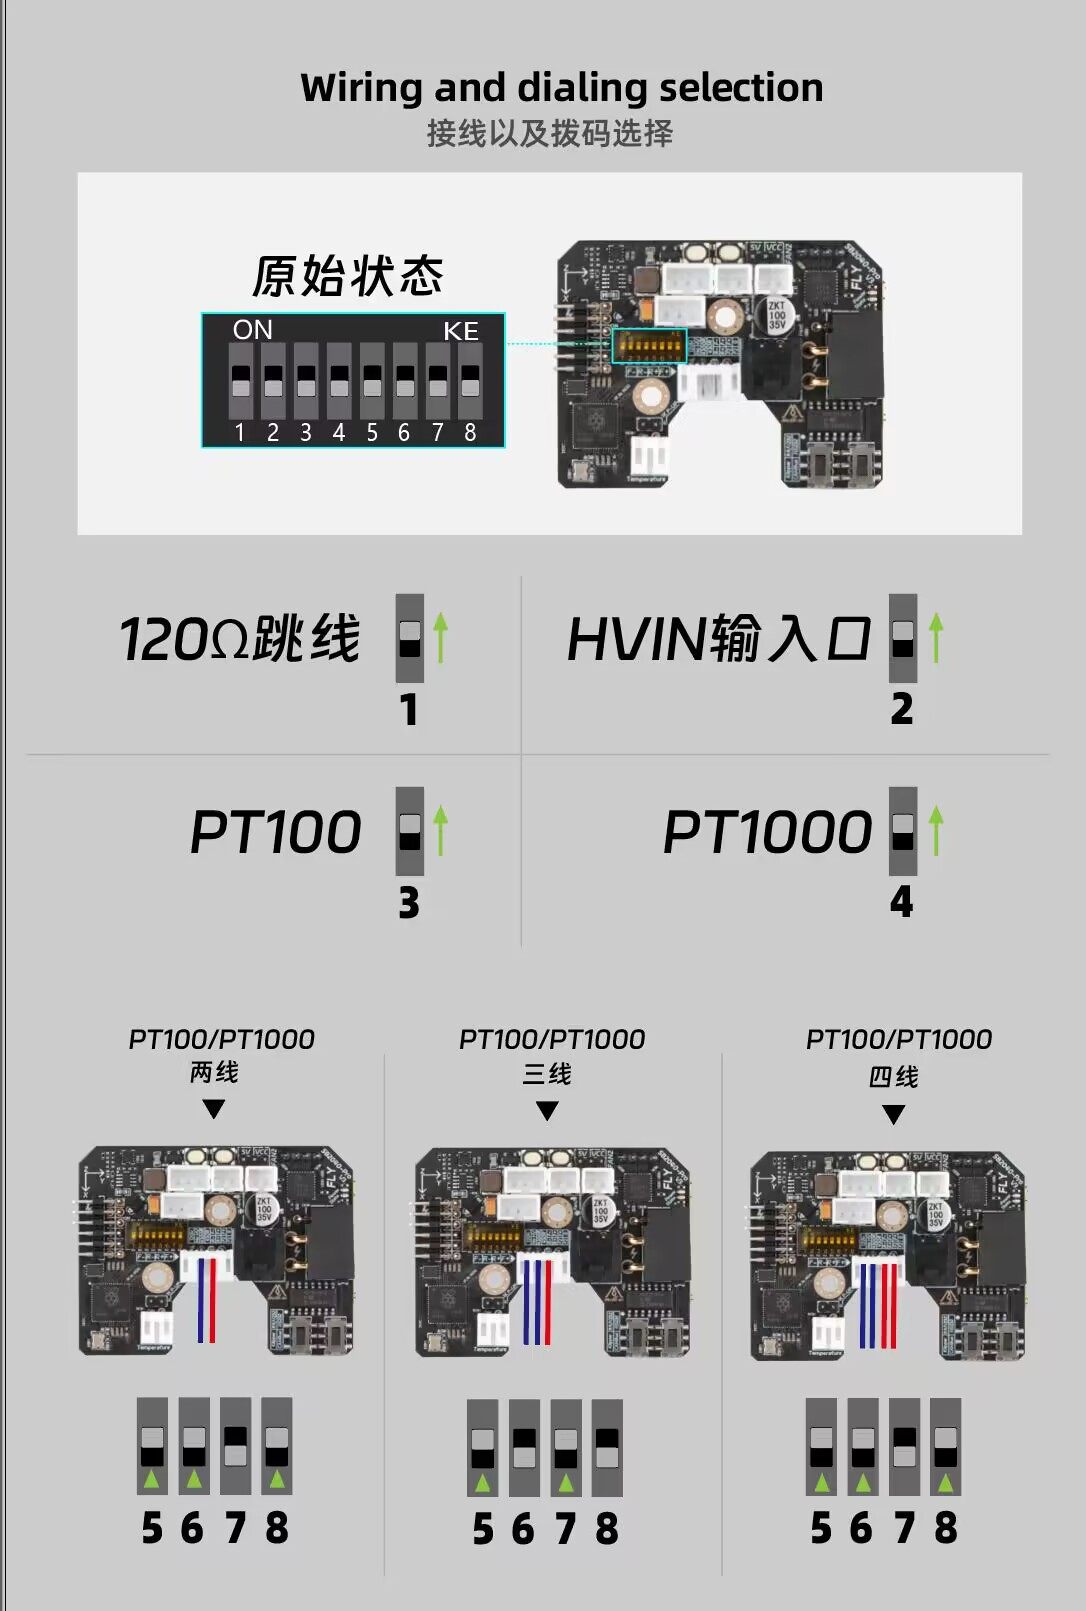
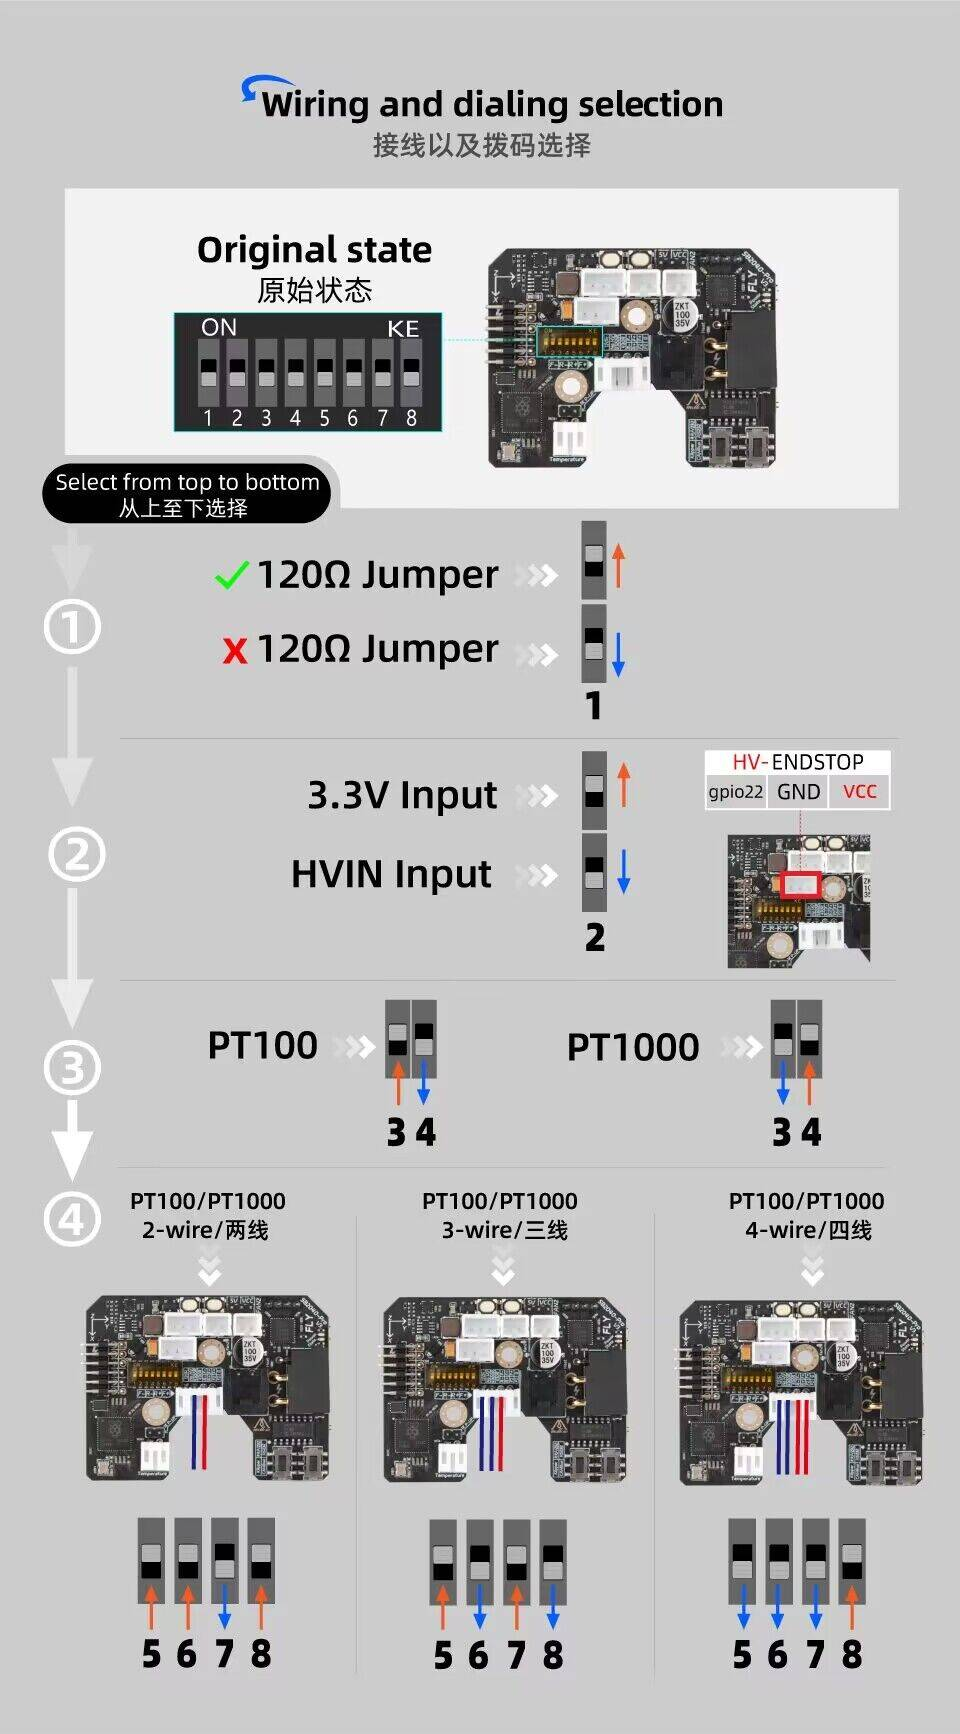
更新sb2040拨码选项 更新d5烧录 修复已知问题

Changed region(s): [[0.0, 0.0, 0.9688, 1.0], [0.25, 0.031, 0.75, 0.0931], [0.5938, 0.5897, 0.75, 0.6207]]

diff --git a/docs/board/fly_d5/katapult.md b/docs/board/fly_d5/katapult.md
@@ -137,5 +137,5 @@ make flash FLASH_DEVICE=/dev/serial/by-id/usb-katapult_stm32f072xb_12345-if00
 ![2](../../images/boards/fly_d5/flash2.png)
 
 * 出现`CAN Flash Success`代表烧录成功
-* 如果需要更新KLIPPER固件可在`Klipper`目录下执行`python3 ~/katapult/scripts/flashtool.py -i can0 -u <MCU ID> -r`，此命令可以让主板**进入katapult固件下**只需要**重新执行烧录klipper固件命令即可**
+* 如果需要更新KLIPPER固件可在`Klipper`目录下执行`~/klippy-env/bin/python3  ~/katapult/scripts/flashtool.py -i can0 -u <MCU ID> -r`，此命令可以让主板**进入katapult固件下**只需要**重新执行烧录klipper固件命令即可**
 

diff --git a/docs/board/fly_sb2040_v3/DIP_switch.md b/docs/board/fly_sb2040_v3/DIP_switch.md
@@ -4,20 +4,5 @@
 
 
 
-## KLIPPPER使用CAN连接时候请将拨码拨到
+![DIP](../../images/boards/fly_sb2040_v3/DIP.jpg)
 
-**两个拨码都往下拨**
-
-![DIP](../../images/boards/fly_sb2040_v3/DIP.png)
-
-## KLIPPER使用RS232连接时候请将拨码拨到
-
-**两个拨码都往上拨**
-
-![DIP](../../images/boards/fly_sb2040_v3/UART.png)
-
-## RRF使用CAN连接时候请将拨码拨到
-
-**左边拨码往上拨，右边拨码往下拨**
-
-![DIP](../../images/boards/fly_sb2040_v3/RRF.png)

diff --git a/docs/board/fly_sb2040_v3_pro/DIP_switch.md b/docs/board/fly_sb2040_v3_pro/DIP_switch.md
@@ -4,20 +4,4 @@
 
 
 
-## KLIPPPER使用CAN连接时候请将拨码拨到
-
-**两个拨码都往下拨**
-
-![DIP](../../images/boards/fly_sb2040_v3/DIP.png)
-
-## KLIPPER使用RS232连接时候请将拨码拨到
-
-**两个拨码都往上拨**
-
-![DIP](../../images/boards/fly_sb2040_v3/UART.png)
-
-## RRF使用CAN连接时候请将拨码拨到
-
-**左边拨码往上拨，右边拨码往下拨**
-
-![DIP](../../images/boards/fly_sb2040_v3/RRF.png)
+![DIP](../../images/boards/fly_sb2040_v3/DIP.JPG)

diff --git a/docs/board/fly_sht_v2/canbootflash.md b/docs/board/fly_sht_v2/canbootflash.md
@@ -21,7 +21,7 @@ https://cdn.mellow.klipper.cn/BL/FLY_SHT36V2_072_CANBOOT_500K.bin
 1M的CANBOOT下载链接
 
 ```
-https://cdn.mellow.klipper.cn/BL/FLY_SHT36V2_072_CANBOOT_500K.bin
+https://cdn.mellow.klipper.cn/BL/FLY_SHT36V2_072_CANBOOT_1M.bin
 ```
 
 ![config](../../images/boards/fly_sht_v2/canboot1.png ":no-zooom")

diff --git a/docs/board/bd_sensor/klipper.md b/docs/board/bd_sensor/klipper.md
@@ -40,7 +40,7 @@ git pull
 - 克隆BD传感器的最新代码
 
 ```
-git clone https://github.com/markniu/Bed_Distance_sensor.git
+cd && git clone https://github.com/markniu/Bed_Distance_sensor.git
 ```
 
 - 安装

diff --git a/docs/board/fly_pi_lite2/screen.md b/docs/board/fly_pi_lite2/screen.md
@@ -41,9 +41,7 @@
 >
 > 配置方法与TFT V1一样！！！
 
-
-
-![pi-v2](../../images/adv/tftv2.jpg)
+![hdmi](../../images/boards/fly_pi_lite2/tftv2.jpg)
 
 # HDMI屏幕接线
 
